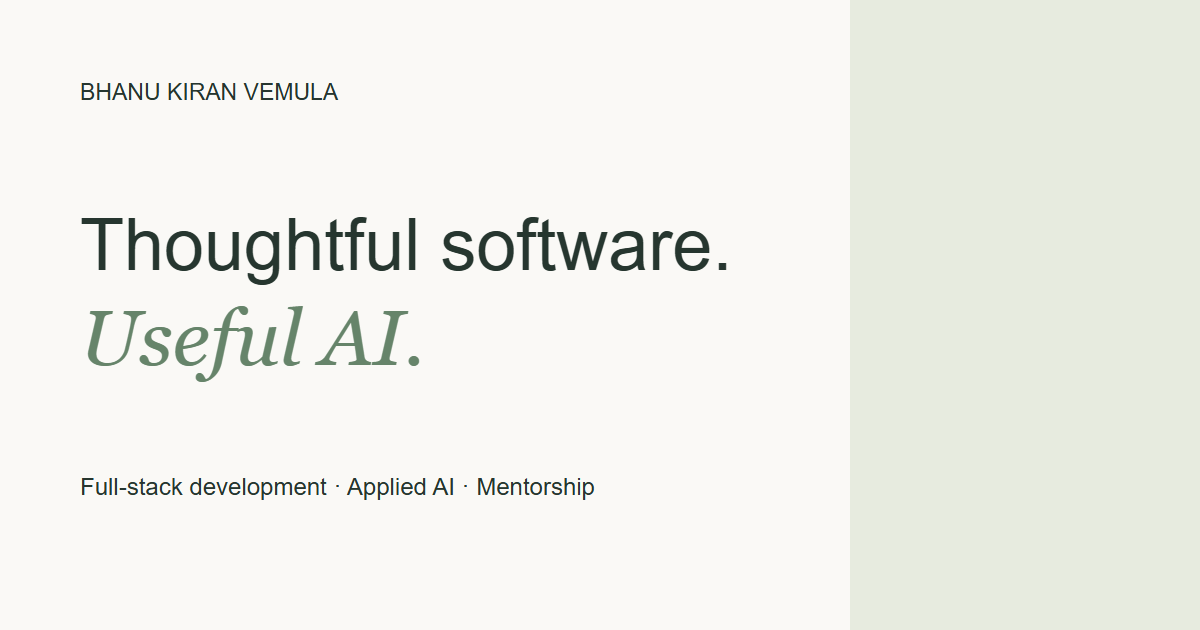
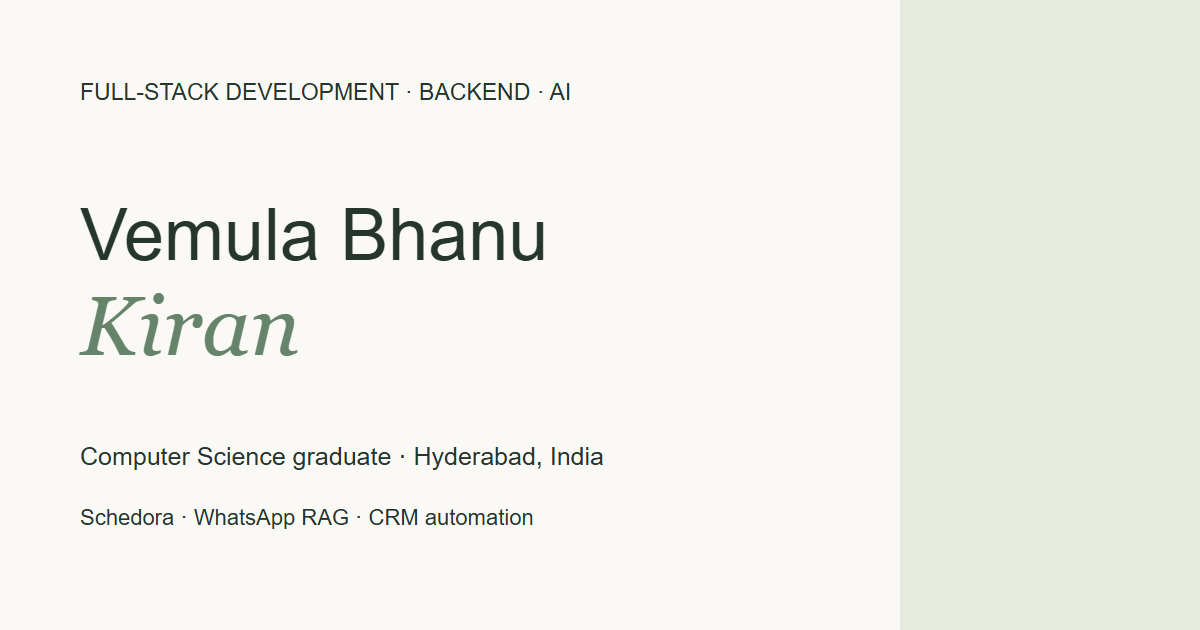
Align professional portfolio with resume and add portrait

Changed region(s): [[0.0617, 0.3317, 0.6167, 0.6032], [0.0617, 0.6937, 0.5242, 0.8444], [0.0617, 0.1206, 0.4933, 0.181]]

diff --git a/src/professional/ProfessionalPortfolio.tsx b/src/professional/ProfessionalPortfolio.tsx
@@ -2,56 +2,66 @@ import { useState } from 'react'
 
 const projects = [
   {
-    name: 'Conversion Platform',
-    category: 'Frontend engineering · Lead generation',
-    description: 'A lead-generation experience connecting campaign journeys with dynamic forms and sales workflows. Built to make the next step clear for prospective learners.',
-    technologies: ['React', 'TypeScript', 'Dynamic forms'],
-    href: 'https://ccbp.in/intensive',
-    theme: 'orange',
-    visual: 'From interest to action.',
-    detail: 'Campaign → Form → Enquiry',
-  },
-  {
-    name: 'Pulse AI',
-    category: 'Applied AI · Conversational systems',
-    description: 'A WhatsApp AI platform grounded in a knowledge base, with a live conversation view. Bringing retrieval, messaging, and human visibility into one workflow.',
-    technologies: ['RAG', 'WhatsApp API', 'React', 'Node.js'],
-    theme: 'blue',
-    visual: 'Answers, with context.',
-    detail: 'Knowledge → Retrieval → Conversation',
-  },
-  {
-    name: 'AI-Powered Communication System',
-    category: 'Workflow automation · Internal tools',
-    description: 'A message generator that turns category templates and spreadsheet data into personalized parent communications, including student, coach, and university details.',
-    technologies: ['React', 'Google Sheets API', 'REST APIs'],
-    href: 'https://parent-message.vercel.app/',
-    theme: 'sage',
-    visual: 'Less repetition. More clarity.',
-    detail: 'Templates → Personalization → Message',
-  },
-  {
     name: 'Schedora',
-    category: 'Full-stack development · Productivity',
-    description: 'A task and scheduling application for organizing daily work. Connecting a clear planning interface with the APIs that keep tasks and schedules in sync.',
-    technologies: ['React', 'Node.js', 'REST APIs'],
-    theme: 'sand',
-    visual: 'Make room for focused work.',
-    detail: 'Plan → Organize → Track',
+    category: 'Scheduling, forms & workflow platform',
+    description: 'Defined the product architecture and directed AI-assisted implementation, code review, and validation for a platform combining scheduling, intake forms, and automated follow-ups.',
+    technologies: ['JavaScript', 'Node.js', 'SQLite', 'PostgreSQL', 'Anthropic SDK', 'GitHub Actions'],
+    href: 'https://schedora.in/',
+    theme: 'sage',
+    visual: 'One platform. Connected workflows.',
+    detail: 'Scheduling → Forms → Follow-ups',
+    highlights: [
+      'Configurable forms with conditional questions, answer piping, versioned publishing, server-side validation, response history, and CSV export.',
+      'One-to-one, group, collective, and round-robin appointments with timezone-aware availability, booking limits, cancellation, and rescheduling.',
+      'Workspace authorization, scrypt password hashing, cookie-based sessions, and CSRF protection.',
+      'Backend services structured around SQL migrations, background jobs, and a durable outbox.',
+      'Vercel and Render deployments with GitHub Actions checks for integration tests, browser journeys, and PostgreSQL compatibility.',
+    ],
+  },
+  {
+    name: 'WhatsApp AI Support Chatbot',
+    category: 'AI application engineering · Retrieval-augmented generation',
+    description: 'Developed and deployed a WhatsApp support chatbot for team use, connecting OpenAI APIs with a retrieval-augmented generation workflow.',
+    technologies: ['OpenAI API', 'RAG', 'Supabase PostgreSQL', 'pgvector', 'Gallabox'],
+    theme: 'blue',
+    visual: 'Context-aware support.',
+    detail: 'Knowledge base → Retrieval → WhatsApp',
+    highlights: [
+      'Retrieved relevant knowledge-base content using Supabase PostgreSQL and pgvector.',
+      'Used retrieved context to ground OpenAI responses in the support knowledge base.',
+      'Integrated the retrieval and response workflow with WhatsApp through Gallabox.',
+    ],
+  },
+  {
+    name: 'Lead Management & CRM Automation',
+    category: 'Full-stack development · API integrations',
+    description: 'Designed and developed a full-stack lead capture and management pipeline, moving verified lead information into downstream business workflows.',
+    technologies: ['React.js', 'Node.js', 'REST APIs', 'Google Sheets API', 'CRM APIs'],
+    theme: 'orange',
+    visual: 'Verified leads. Connected systems.',
+    detail: 'Capture → OTP verification → CRM',
+    highlights: [
+      'Built the lead capture interface with React.js and backend processing with Node.js.',
+      'Implemented OTP verification and backend validation of lead information.',
+      'Integrated Google Sheets and CRM APIs to transfer verified leads into downstream workflows.',
+    ],
   },
 ] as const
 
 const experience = [
-  { role: 'Team Lead Manager', company: 'NxtWave', period: 'Started April 2025', description: 'Web application development, frontend architecture, code quality, and developer mentoring.' },
-  { role: 'Associate Mentor', company: 'NIAT · NxtWave', period: 'December 2024 — July 2025', description: 'Mentored developers in the MERN stack, reviewed code, and supported frontend engineering practices.' },
-  { role: 'MERN Stack Trainee', company: 'NxtWave', period: 'January — December 2024', description: 'Built full-stack applications, reusable React components, and REST API integrations.' },
+  { role: 'Team Lead Manager', company: 'NxtWave', period: 'April 2025 — Present' },
+  { role: 'Associate Mentor', company: 'NIAT', period: 'December 2024 — April 2025' },
+  { role: 'Frontend Development Intern', company: 'Mentorify', period: 'January — May 2024', description: 'Contributed to frontend development during the internship.' },
 ]
 
 const skills = [
-  { title: 'Interfaces', items: ['React', 'Next.js', 'TypeScript', 'JavaScript', 'HTML & CSS', 'Tailwind CSS'] },
-  { title: 'Systems & data', items: ['Node.js', 'Express', 'REST APIs', 'MongoDB', 'MySQL', 'Google Sheets API'] },
-  { title: 'AI & workflows', items: ['RAG', 'LLM integrations', 'WhatsApp API', 'Workflow automation', 'Prompt design'] },
-  { title: 'Engineering practice', items: ['Git & GitHub', 'Vite', 'CI/CD', 'Responsive design', 'Accessibility', 'Code review'] },
+  { title: 'Programming', items: ['C++', 'Java', 'Python', 'JavaScript', 'SQL'] },
+  { title: 'Core computer science', items: ['Data Structures & Algorithms', 'Object-Oriented Programming', 'DBMS', 'Time & Space Complexity'] },
+  { title: 'Frontend', items: ['React.js', 'React Router', 'HTML5', 'CSS3', 'Bootstrap'] },
+  { title: 'Backend', items: ['Node.js', 'Express.js', 'REST APIs', 'JWT', 'Webhooks', 'WebSockets'] },
+  { title: 'Databases', items: ['PostgreSQL', 'MySQL', 'SQLite', 'Supabase', 'pgvector'] },
+  { title: 'AI engineering', items: ['OpenAI API', 'Anthropic SDK', 'RAG', 'Embeddings', 'Semantic Search', 'AI-Assisted Development'] },
+  { title: 'Tools & deployment', items: ['Git', 'GitHub', 'Docker', 'Postman', 'GitHub Actions', 'Vercel', 'Render'] },
 ]
 
 function ProfessionalPortfolio() {
@@ -62,10 +72,14 @@ function ProfessionalPortfolio() {
     <div className="personal-site">
       <a className="personal-skip" href="#main-content">Skip to content</a>
       <header className="personal-header">
-        <a className="personal-wordmark" href="/" aria-label="Bhanu Kiran Vemula home">bhanu<span>kiran.</span></a>
-        <button className="personal-menu-toggle" aria-controls="personal-nav" aria-expanded={menuOpen} onClick={() => setMenuOpen(!menuOpen)}>{menuOpen ? 'Close menu' : 'Open menu'}</button>
+        <a className="personal-wordmark" href="/" aria-label="Vemula Bhanu Kiran home">bhanu<span>kiran.</span></a>
+        <button className="personal-menu-toggle" aria-controls="personal-nav" aria-expanded={menuOpen} onClick={() => setMenuOpen(open => !open)}>
+          {menuOpen ? 'Close menu' : 'Open menu'}
+        </button>
         <nav id="personal-nav" aria-label="Main" className={menuOpen ? 'is-open' : ''}>
-          {['Work', 'About', 'Experience', 'Contact'].map(label => <a key={label} href={`/#${label.toLowerCase()}`} onClick={() => setMenuOpen(false)}>{label}</a>)}
+          {['Work', 'About', 'Experience', 'Contact'].map(label => (
+            <a key={label} href={`/#${label.toLowerCase()}`} onClick={() => setMenuOpen(false)}>{label}</a>
+          ))}
         </nav>
         <a className="personal-header-link" href="mailto:bhanukiran750@gmail.com">Let’s connect <span aria-hidden="true">↗</span></a>
       </header>
@@ -73,41 +87,140 @@ function ProfessionalPortfolio() {
       <main id="main-content">
         <section className="personal-hero personal-container" aria-labelledby="personal-title">
           <div className="personal-hero-copy">
-            <p className="personal-eyebrow"><span className="personal-dot" /> FULL-STACK DEVELOPMENT & APPLIED AI</p>
-            <h1 id="personal-title">Thoughtful software.<br /><span>Useful AI.</span></h1>
-            <p className="personal-introduction">I’m <strong>Bhanu Kiran Vemula</strong> — a developer and engineering mentor turning complex workflows into clear, useful digital experiences.</p>
-            <p className="personal-hero-note">From responsive interfaces to knowledge-grounded AI, I care about the details that make software work for people.</p>
-            <div className="personal-actions"><a className="personal-button" href="/#work">Explore my work <span aria-hidden="true">↓</span></a><a className="personal-text-link" href="https://www.linkedin.com/in/bhanu-kiran-vemula/" target="_blank" rel="noopener noreferrer">LinkedIn <span aria-hidden="true">↗</span></a></div>
+            <p className="personal-eyebrow"><span className="personal-dot" /> FULL-STACK DEVELOPMENT · BACKEND · AI</p>
+            <h1 id="personal-title">Vemula Bhanu<br /><span>Kiran</span></h1>
+            <p className="personal-introduction">Computer Science graduate building <strong>full-stack applications, backend systems, and practical AI solutions.</strong></p>
+            <p className="personal-hero-note">I define architectures, direct AI-assisted implementation and validation, and connect applications with the data and workflows that make them useful.</p>
+            <div className="personal-actions">
+              <a className="personal-button" href="/#work">Explore my work <span aria-hidden="true">↓</span></a>
+              <a className="personal-text-link" href="https://www.linkedin.com/in/bhanu-kiran-vemula/" target="_blank" rel="noopener noreferrer">LinkedIn <span aria-hidden="true">↗</span></a>
+            </div>
           </div>
           <aside className="personal-intro-card" aria-label="Profile at a glance">
-            <div className="personal-card-top"><span>BUILDING WITH INTENTION</span><span aria-hidden="true">✳</span></div>
-            <div className="personal-monogram" aria-hidden="true">b<span>k</span><i>.</i></div>
-            <div className="personal-card-caption"><strong>Bhanu Kiran Vemula</strong><span>Developer. Mentor. Problem solver.</span></div>
-            <div className="personal-card-bottom"><span>BASED IN INDIA</span><span>OPEN TO CONVERSATIONS ↗</span></div>
+            <div className="personal-card-top"><span>ENGINEERING WITH INTENTION</span><span aria-hidden="true">✳</span></div>
+            <img className="personal-portrait" src="/images/vemula-bhanu-kiran.jpg" alt="Vemula Bhanu Kiran" width={400} height={400} fetchPriority="high" />
+            <div className="personal-card-caption"><strong>Vemula Bhanu Kiran</strong><span>Full-stack development · Backend systems · AI</span></div>
+            <div className="personal-card-bottom"><span>MADHAPUR, HYDERABAD</span><span>TELANGANA, INDIA</span></div>
           </aside>
         </section>
 
-        <div className="personal-focus-strip"><span>Clean interfaces</span><span aria-hidden="true">✳</span><span>Connected systems</span><span aria-hidden="true">✳</span><span>Practical AI</span><span aria-hidden="true">✳</span><span>Thoughtful collaboration</span></div>
+        <div className="personal-focus-strip">
+          <span>Full-stack development</span><span aria-hidden="true">✳</span>
+          <span>Backend systems</span><span aria-hidden="true">✳</span>
+          <span>AI application engineering</span><span aria-hidden="true">✳</span>
+          <span>Workflow automation</span>
+        </div>
 
         <section id="work" className="personal-section personal-container" aria-labelledby="work-title">
-          <div className="personal-section-heading"><div><p className="personal-eyebrow">01 / SELECTED WORK</p><h2 id="work-title">Ideas put into practice.</h2></div><p>A selection of interfaces, tools, and AI systems I’ve worked on.</p></div>
-          <div className="personal-project-grid">{projects.map((project, index) => <article key={project.name} className="personal-project">
-            <div className={`personal-project-art personal-project-art--${project.theme}`} aria-hidden="true"><span className="personal-project-number">0{index + 1}</span><strong>{project.visual}</strong><span className="personal-project-flow">{project.detail}</span><div className="personal-art-orbit" /></div>
-            <div className="personal-project-heading"><div><p className="personal-eyebrow">{project.category}</p><h3>{project.name}</h3></div><button className="personal-project-toggle" aria-expanded={expandedProject === project.name} aria-controls={`project-${index}`} aria-label={`${expandedProject === project.name ? 'Hide' : 'Show'} details for ${project.name}`} onClick={() => setExpandedProject(expandedProject === project.name ? null : project.name)}>{expandedProject === project.name ? '−' : '+'}</button></div>
-            <p>{project.description}</p><ul className="personal-tags" aria-label={`${project.name} technologies`}>{project.technologies.map(technology => <li key={technology}>{technology}</li>)}</ul>
-            <div id={`project-${index}`} hidden={expandedProject !== project.name} className="personal-project-detail"><p><strong>Engineering focus:</strong> {project.detail.split(' → ').join(', ')}. The work brings together {project.technologies.join(', ')} around a practical user workflow.</p>{'href' in project && <a className="personal-text-link" href={project.href} target="_blank" rel="noopener noreferrer">Visit project <span aria-hidden="true">↗</span></a>}</div>
-          </article>)}</div>
+          <div className="personal-section-heading">
+            <div><p className="personal-eyebrow">01 / TECHNICAL PROJECTS</p><h2 id="work-title">Architecture to implementation.</h2></div>
+            <p>Scheduling, retrieval-augmented AI, and verified lead pipelines — built around practical workflows.</p>
+          </div>
+          <div className="personal-project-grid">
+            {projects.map((project, index) => (
+              <article key={project.name} className={index === 0 ? 'personal-project personal-project--featured' : 'personal-project'}>
+                <div className={`personal-project-art personal-project-art--${project.theme}`} aria-hidden="true">
+                  <span className="personal-project-number">0{index + 1}</span>
+                  <strong>{project.visual}</strong>
+                  <span className="personal-project-flow">{project.detail}</span>
+                  <div className="personal-art-orbit" />
+                </div>
+                <div className="personal-project-content">
+                  <div className="personal-project-heading">
+                    <div><p className="personal-eyebrow">{project.category}</p><h3>{project.name}</h3></div>
+                    <button
+                      className="personal-project-toggle"
+                      aria-expanded={expandedProject === project.name}
+                      aria-controls={`project-${index}`}
+                      aria-label={`${expandedProject === project.name ? 'Hide' : 'Show'} details for ${project.name}`}
+                      onClick={() => setExpandedProject(expandedProject === project.name ? null : project.name)}
+                    >
+                      {expandedProject === project.name ? '−' : '+'}
+                    </button>
+                  </div>
+                  <p>{project.description}</p>
+                  <ul className="personal-tags" aria-label={`${project.name} technologies`}>
+                    {project.technologies.map(technology => <li key={technology}>{technology}</li>)}
+                  </ul>
+                  {'href' in project && (
+                    <a className="personal-text-link personal-project-live" href={project.href} target="_blank" rel="noopener noreferrer">Explore Schedora <span aria-hidden="true">↗</span></a>
+                  )}
+                  <div id={`project-${index}`} hidden={expandedProject !== project.name} className="personal-project-detail">
+                    <ul>{project.highlights.map(highlight => <li key={highlight}>{highlight}</li>)}</ul>
+                  </div>
+                </div>
+              </article>
+            ))}
+          </div>
         </section>
 
-        <section id="about" className="personal-about" aria-labelledby="about-title"><div className="personal-container personal-about-grid"><div><p className="personal-eyebrow">02 / A LITTLE ABOUT ME</p><h2 id="about-title">Curious by nature.<br />Practical by approach.</h2></div><div className="personal-about-copy"><p>I enjoy the space where engineering meets everyday problems: a form that needs to feel simpler, a team repeating the same task, or information that should be easier to find.</p><p>My work spans frontend development, full-stack applications, and AI-assisted workflows. Alongside building, I’ve mentored developers and helped teams think through code quality, architecture, and delivery.</p><p>I value clear communication, accessible interfaces, and software that is understandable long after its first release.</p><a className="personal-text-link" href="https://github.com/bhanukiran12" target="_blank" rel="noopener noreferrer">Find me on GitHub <span aria-hidden="true">↗</span></a></div></div></section>
+        <section id="about" className="personal-about" aria-labelledby="about-title">
+          <div className="personal-container personal-about-grid">
+            <div><p className="personal-eyebrow">02 / PROFESSIONAL SUMMARY</p><h2 id="about-title">Systems thinking.<br />Hands-on engineering.</h2></div>
+            <div className="personal-about-copy">
+              <p>I’m a Computer Science graduate with hands-on experience in full-stack development, backend systems, and AI application engineering.</p>
+              <p>For Schedora, I defined the architecture and directed AI-assisted implementation and validation across scheduling, forms, and workflow automation.</p>
+              <p>I’ve also built a WhatsApp support chatbot using retrieval-augmented generation and a lead management pipeline integrating verification, Google Sheets, and CRM APIs.</p>
+              <a className="personal-text-link" href="https://github.com/bhanukiran12" target="_blank" rel="noopener noreferrer">Find me on GitHub <span aria-hidden="true">↗</span></a>
+            </div>
+          </div>
+        </section>
 
-        <section id="experience" className="personal-section personal-container" aria-labelledby="experience-title"><div className="personal-section-heading"><div><p className="personal-eyebrow">03 / EXPERIENCE</p><h2 id="experience-title">Building, learning, sharing.</h2></div><p>Experience across development, team leadership, and technical mentoring.</p></div><div className="personal-timeline">{experience.map(item => <article key={item.role}><div><p className="personal-eyebrow">{item.company}</p><h3>{item.role}</h3><p className="personal-period">{item.period}</p></div><p>{item.description}</p></article>)}</div></section>
+        <section id="experience" className="personal-section personal-container" aria-labelledby="experience-title">
+          <div className="personal-section-heading">
+            <div><p className="personal-eyebrow">03 / PROFESSIONAL EXPERIENCE</p><h2 id="experience-title">My professional journey.</h2></div>
+            <p>Experience across team leadership, mentoring, and frontend development.</p>
+          </div>
+          <div className="personal-timeline">
+            {experience.map(item => (
+              <article key={item.role}>
+                <div><p className="personal-eyebrow">{item.company}</p><h3>{item.role}</h3>{item.description && <p className="personal-experience-description">{item.description}</p>}</div>
+                <p>{item.period}</p>
+              </article>
+            ))}
+          </div>
+        </section>
 
-        <section className="personal-skills personal-container" aria-labelledby="skills-title"><p className="personal-eyebrow">THE TOOLKIT</p><h2 id="skills-title">Tools follow the problem.</h2><div className="personal-skills-grid">{skills.map(group => <div key={group.title}><h3>{group.title}</h3><ul>{group.items.map(item => <li key={item}>{item}</li>)}</ul></div>)}</div></section>
+        <section className="personal-skills personal-container" aria-labelledby="skills-title">
+          <p className="personal-eyebrow">TECHNICAL SKILLS</p>
+          <h2 id="skills-title">Foundations, systems, and tools.</h2>
+          <div className="personal-skills-grid">
+            {skills.map(group => <div key={group.title}><h3>{group.title}</h3><ul>{group.items.map(item => <li key={item}>{item}</li>)}</ul></div>)}
+          </div>
+        </section>
 
-        <section id="contact" className="personal-contact personal-container" aria-labelledby="contact-title"><p className="personal-eyebrow">04 / SAY HELLO</p><h2 id="contact-title">Good work starts with<br />a good conversation.</h2><p>Have an engineering opportunity, a technical question, or an idea worth exploring? I’d be glad to hear from you.</p><a className="personal-email" href="mailto:bhanukiran750@gmail.com">bhanukiran750@gmail.com <span aria-hidden="true">↗</span></a><div className="personal-contact-links"><a href="https://www.linkedin.com/in/bhanu-kiran-vemula/" target="_blank" rel="noopener noreferrer">LinkedIn ↗</a><a href="https://github.com/bhanukiran12" target="_blank" rel="noopener noreferrer">GitHub ↗</a></div></section>
+        <section id="education" className="personal-learning personal-container" aria-labelledby="education-title">
+          <p className="personal-eyebrow">04 / EDUCATION & TRAINING</p>
+          <h2 id="education-title">A foundation in computer science.</h2>
+          <div className="personal-learning-grid">
+            <article>
+              <p className="personal-eyebrow">VIT-AP UNIVERSITY · 2020–2024</p>
+              <h3>B.Tech in Computer Science and Engineering</h3>
+              <p>Bachelor of Technology</p>
+              <span className="personal-academic-score">CGPA 8.09 / 10</span>
+            </article>
+            <article>
+              <p className="personal-eyebrow">NXTWAVE · JANUARY–DECEMBER 2024</p>
+              <h3>MERN Stack Trainee</h3>
+              <p>Full-stack development training</p>
+            </article>
+          </div>
+        </section>
+
+        <section id="contact" className="personal-contact personal-container" aria-labelledby="contact-title">
+          <p className="personal-eyebrow">05 / LET’S CONNECT</p>
+          <h2 id="contact-title">Let’s talk engineering.</h2>
+          <p>For full-stack development, backend systems, and AI application engineering opportunities, get in touch.</p>
+          <a className="personal-email" href="mailto:bhanukiran750@gmail.com">bhanukiran750@gmail.com <span aria-hidden="true">↗</span></a>
+          <div className="personal-contact-links">
+            <a href="tel:+916309499278">+91 6309499278</a>
+            <a href="https://www.linkedin.com/in/bhanu-kiran-vemula/" target="_blank" rel="noopener noreferrer">LinkedIn ↗</a>
+            <a href="https://github.com/bhanukiran12" target="_blank" rel="noopener noreferrer">GitHub ↗</a>
+          </div>
+          <p className="personal-location">Madhapur, Hyderabad, Telangana</p>
+        </section>
       </main>
-      <footer className="personal-footer personal-container"><span>© {new Date().getFullYear()} Bhanu Kiran Vemula</span><span>Built with care, in India.</span><a href="/#main-content">Back to top ↑</a></footer>
+      <footer className="personal-footer personal-container"><span>© {new Date().getFullYear()} Vemula Bhanu Kiran</span><span>Hyderabad, India.</span><a href="/#main-content">Back to top ↑</a></footer>
     </div>
   )
 }

diff --git a/src/professional/ProfessionalPortfolio.css b/src/professional/ProfessionalPortfolio.css
@@ -34,9 +34,7 @@ h1, h2, h3, p { margin: 0; }
 .personal-intro-card { min-height: 420px; padding: 28px; background: #e7ebdf; border-radius: 9px; position: relative; overflow: hidden; border: 1px solid #d7dfcf; }
 .personal-card-top { display: flex; justify-content: space-between; align-items: center; color: #52634e; font-size: 9px; font-weight: 650; letter-spacing: 1.4px; }
 .personal-card-top > span:last-child { font-size: 24px; }
-.personal-monogram { padding: 32px 0 18px; text-align: center; font-family: Georgia, serif; font-size: clamp(110px, 13vw, 180px); line-height: 1; color: #304d37; letter-spacing: -18px; }
-.personal-monogram span { color: #78906c; }
-.personal-monogram i { color: #b76a32; font-style: normal; }
+.personal-portrait { display: block; width: min(260px, 100%); height: auto; aspect-ratio: 1; object-fit: cover; margin: 22px auto 0; border-radius: 8px; }
 .personal-card-caption { display: grid; gap: 8px; text-align: center; margin-top: 16px; }
 .personal-card-caption strong { font-size: 17px; font-weight: 600; }
 .personal-card-caption > span { font-size: 11px; color: #5b6b55; }
@@ -48,6 +46,9 @@ h1, h2, h3, p { margin: 0; }
 .personal-section-heading > p { max-width: 285px; font-size: 13px; line-height: 1.8; color: #687269; }
 .personal-site h2 { font-size: clamp(29px, 3.2vw, 43px); line-height: 1.2; font-weight: 500; letter-spacing: -1.7px; margin-top: 16px; }
 .personal-project-grid { display: grid; grid-template-columns: 1fr 1fr; gap: 50px 32px; }
+.personal-project--featured { grid-column: 1 / -1; display: grid; grid-template-columns: 1fr 1fr; gap: 32px; align-items: start; }
+.personal-project--featured .personal-project-art { min-height: 320px; }
+.personal-project--featured .personal-project-heading { margin-top: 0; }
 .personal-project-art { position: relative; height: 260px; overflow: hidden; padding: 27px; display: flex; flex-direction: column; justify-content: space-between; border-radius: 7px; }
 .personal-project-art--orange { background: #efe0cf; color: #6c4828; }
 .personal-project-art--blue { background: #dfe7ed; color: #365468; }
@@ -60,12 +61,15 @@ h1, h2, h3, p { margin: 0; }
 .personal-project-heading { display: flex; justify-content: space-between; align-items: center; gap: 16px; margin-top: 23px; }
 .personal-project-heading .personal-eyebrow { font-size: 9px; letter-spacing: 1px; }
 .personal-project h3 { font-size: 20px; line-height: 1.35; font-weight: 550; letter-spacing: -.5px; margin-top: 7px; }
-.personal-project > p, .personal-project-detail p { font-size: 13px; line-height: 1.85; color: #687269; margin-top: 15px; }
+.personal-project-content > p, .personal-project-detail p { font-size: 13px; line-height: 1.85; color: #687269; margin-top: 15px; }
 .personal-project-toggle { flex-shrink: 0; width: 36px; height: 36px; border: 1px solid #d4dace; border-radius: 50%; background: transparent; color: #294335; font-size: 20px; }
 .personal-project-toggle:hover { background: #e7ebdf; }
 .personal-tags { display: flex; flex-wrap: wrap; gap: 8px; list-style: none; padding: 0; margin: 18px 0 0; }
 .personal-tags li { padding: 5px 9px; border: 1px solid #e0e3d9; border-radius: 4px; font-size: 10px; color: #58634f; }
 .personal-project-detail .personal-text-link { margin-top: 15px; }
+.personal-project-live { margin-top: 20px; }
+.personal-project-detail ul { padding-left: 19px; margin: 20px 0 0; color: #5c685b; font-size: 13px; line-height: 1.85; }
+.personal-project-detail li + li { margin-top: 10px; }
 .personal-about { background: #f0f1e9; border-block: 1px solid #e3e6da; padding-block: 75px; }
 .personal-about-grid { display: grid; grid-template-columns: 1fr 1fr; gap: 70px; }
 .personal-about-copy p { font-size: 14px; line-height: 1.95; color: #5c685b; margin-bottom: 17px; }
@@ -73,6 +77,7 @@ h1, h2, h3, p { margin: 0; }
 .personal-timeline article { display: grid; grid-template-columns: 1fr 1fr; gap: 60px; padding: 30px 0; border-top: 1px solid #dfe3d8; }
 .personal-timeline h3 { font-size: 20px; font-weight: 550; letter-spacing: -.4px; margin-top: 7px; }
 .personal-period { font-size: 12px; color: #687269; margin-top: 10px; }
+.personal-experience-description { font-size: 13px; color: #687269; line-height: 1.8; margin-top: 12px; }
 .personal-timeline article > p { font-size: 14px; color: #687269; line-height: 1.9; }
 .personal-skills { padding-bottom: 90px; }
 .personal-skills-grid { display: grid; grid-template-columns: repeat(4, 1fr); gap: 32px; margin-top: 35px; border-top: 1px solid #dfe3d8; padding-top: 28px; }
@@ -83,8 +88,16 @@ h1, h2, h3, p { margin: 0; }
 .personal-contact > p:not(.personal-eyebrow) { margin: 23px auto 0; max-width: 470px; color: #687269; font-size: 14px; line-height: 1.9; }
 .personal-email { display: inline-block; margin-top: 30px; font-size: clamp(16px, 2.5vw, 26px); font-weight: 500; letter-spacing: -.5px; border-bottom: 1px solid #9eaa94; padding-bottom: 10px; }
 .personal-email span { margin-left: 15px; }
-.personal-contact-links { display: flex; gap: 28px; justify-content: center; margin-top: 28px; font-size: 12px; }
+.personal-contact-links { display: flex; flex-wrap: wrap; gap: 18px 28px; justify-content: center; margin-top: 28px; font-size: 12px; }
+.personal-learning { padding-bottom: 90px; }
+.personal-learning-grid { display: grid; grid-template-columns: 1fr 1fr; gap: 32px; margin-top: 35px; }
+.personal-learning-grid article { border: 1px solid #dfe3d8; border-radius: 7px; padding: 28px; }
+.personal-learning-grid h3 { font-size: 20px; font-weight: 550; letter-spacing: -.4px; line-height: 1.4; margin-top: 13px; }
+.personal-learning-grid article > p:not(.personal-eyebrow) { color: #687269; font-size: 13px; line-height: 1.8; margin-top: 12px; }
+.personal-academic-score { display: inline-block; color: #304d37; background: #e7ebdf; padding: 7px 12px; border-radius: 4px; font-size: 12px; margin-top: 18px; }
+.personal-contact > .personal-location { font-size: 12px !important; margin-top: 20px !important; }
 .personal-footer { display: flex; justify-content: space-between; gap: 20px; padding-block: 25px; border-top: 1px solid #dfe3d8; color: #687269; font-size: 10px; }
 @media (max-width: 900px) { .personal-container { width: calc(100% - 56px); } .personal-header { padding: 20px 28px; } .personal-header-link { display: none; } .personal-hero { gap: 30px; padding-block: 60px; } .personal-hero h1 { letter-spacing: -2px; } .personal-intro-card { min-height: 360px; padding: 22px; } .personal-card-bottom { flex-direction: column; gap: 8px; } .personal-skills-grid { grid-template-columns: repeat(2, 1fr); } .personal-about-grid { gap: 35px; } }
 @media (max-width: 620px) { html { scroll-padding-top: 80px; } .personal-container { width: calc(100% - 40px); } .personal-header { padding: 19px 20px; } .personal-wordmark { font-size: 23px; } .personal-menu-toggle { display: block; background: transparent; border: 1px solid #d4dace; border-radius: 4px; padding: 8px 10px; font-size: 11px; color: #26362f; } .personal-header nav { display: none; position: absolute; top: 100%; left: 0; right: 0; background: #faf9f6; border-bottom: 1px solid #dfe3d8; padding: 25px; gap: 25px; } .personal-header nav.is-open { display: flex; flex-direction: column; } .personal-hero { grid-template-columns: 1fr; padding-block: 48px; gap: 38px; } .personal-eyebrow { font-size: 9px; letter-spacing: 1.2px; } .personal-hero h1 { font-size: 46px; } .personal-introduction { font-size: 16px; } .personal-hero-note { font-size: 13px; } .personal-intro-card { min-height: auto; padding: 25px; } .personal-monogram { font-size: 140px; padding-block: 20px; } .personal-card-bottom { flex-direction: row; margin-top: 24px; } .personal-focus-strip { flex-wrap: wrap; gap: 14px 20px; font-size: 10px; } .personal-focus-strip > span:nth-child(even) { display: none; } .personal-section { padding-block: 60px; } .personal-section-heading { flex-direction: column; align-items: start; gap: 18px; margin-bottom: 30px; } .personal-project-grid { grid-template-columns: 1fr; gap: 38px; } .personal-project-art { height: 235px; } .personal-project-art > strong { font-size: 32px; } .personal-about { padding-block: 55px; } .personal-about-grid { grid-template-columns: 1fr; gap: 25px; } .personal-timeline article { grid-template-columns: 1fr; gap: 18px; padding-block: 25px; } .personal-skills { padding-bottom: 60px; } .personal-skills-grid { gap: 25px 15px; } .personal-contact { padding-block: 55px; } .personal-footer { flex-wrap: wrap; font-size: 9px; gap: 15px; } }
 @media (prefers-reduced-motion: reduce) { html { scroll-behavior: auto; } *, *::before, *::after { transition: none !important; } }
+@media (max-width: 620px) { .personal-project--featured { grid-template-columns: 1fr; gap: 0; } .personal-project--featured .personal-project-art { min-height: 235px; } .personal-project--featured .personal-project-heading { margin-top: 23px; } .personal-learning { padding-bottom: 60px; } .personal-learning-grid { grid-template-columns: 1fr; gap: 20px; } .personal-portrait { width: min(240px, 100%); } }

diff --git a/professional.html b/professional.html
@@ -4,21 +4,21 @@
     <meta charset="UTF-8" />
     <meta name="viewport" content="width=device-width, initial-scale=1.0" />
     <meta name="theme-color" content="#faf9f6" />
-    <title>Bhanu Kiran Vemula — Full-Stack Developer &amp; Applied AI</title>
-    <meta name="description" content="The professional portfolio of Bhanu Kiran Vemula: full-stack development, practical AI, selected projects, and engineering mentorship." />
-    <meta name="author" content="Bhanu Kiran Vemula" />
+    <title>Vemula Bhanu Kiran — Full-Stack, Backend &amp; AI Engineering</title>
+    <meta name="description" content="Vemula Bhanu Kiran, Computer Science graduate in Hyderabad. Full-stack development, backend systems, and AI engineering: Schedora, a WhatsApp RAG chatbot, and CRM automation." />
+    <meta name="author" content="Vemula Bhanu Kiran" />
     <link rel="canonical" href="https://www.bhanubeyond.com/" />
     <link rel="icon" type="image/svg+xml" href="/personal-favicon.svg" />
     <meta property="og:type" content="website" />
     <meta property="og:url" content="https://www.bhanubeyond.com/" />
-    <meta property="og:title" content="Bhanu Kiran Vemula — Developer &amp; Engineering Mentor" />
-    <meta property="og:description" content="Thoughtful software. Useful AI. Explore my projects, experience, and approach to building digital experiences." />
+    <meta property="og:title" content="Vemula Bhanu Kiran — Full-Stack, Backend &amp; AI Engineering" />
+    <meta property="og:description" content="Computer Science graduate building full-stack applications, backend systems, and practical AI. Explore Schedora, RAG, and CRM automation projects." />
     <meta property="og:image" content="https://www.bhanubeyond.com/personal-og.png" />
     <meta property="og:image:width" content="1200" />
     <meta property="og:image:height" content="630" />
     <meta name="twitter:card" content="summary_large_image" />
     <meta name="twitter:image" content="https://www.bhanubeyond.com/personal-og.png" />
-    <script type="application/ld+json">{"@context":"https://schema.org","@type":"Person","name":"Bhanu Kiran Vemula","url":"https://www.bhanubeyond.com/","jobTitle":"Full-Stack Developer","sameAs":["https://www.linkedin.com/in/bhanu-kiran-vemula/","https://github.com/bhanukiran12"]}</script>
+    <script type="application/ld+json">{"@context":"https://schema.org","@type":"Person","name":"Vemula Bhanu Kiran","url":"https://www.bhanubeyond.com/","image":"https://www.bhanubeyond.com/images/vemula-bhanu-kiran.jpg","email":"bhanukiran750@gmail.com","telephone":"+916309499278","jobTitle":"Team Lead Manager","worksFor":{"@type":"Organization","name":"NxtWave"},"alumniOf":{"@type":"CollegeOrUniversity","name":"VIT-AP University"},"knowsAbout":["Full-stack development","Backend systems","AI application engineering","Retrieval-augmented generation"],"sameAs":["https://www.linkedin.com/in/bhanu-kiran-vemula/","https://github.com/bhanukiran12"]}</script>
   </head>
   <body>
     <div id="root"></div>

diff --git a/DEPLOYMENT.md b/DEPLOYMENT.md
@@ -24,4 +24,4 @@ The domain uses external GoDaddy nameservers. Add a `CNAME` record named `bbtech
 
 ## Content
 
-Personal project, skill, experience, and contact details are in `src/professional/ProfessionalPortfolio.tsx`. Initial content was recovered from earlier portfolio commits and the current project content. The team-lead start date is retained without assuming the role is still current. Update this information as your experience changes.
+Personal project, skill, experience, education, training, and contact details are in `src/professional/ProfessionalPortfolio.tsx`. Content is aligned with the resume supplied by Vemula Bhanu Kiran on 28 October 2026. The original supplied portrait is served from `public/images/vemula-bhanu-kiran.jpg`. Update this information as your experience changes.
